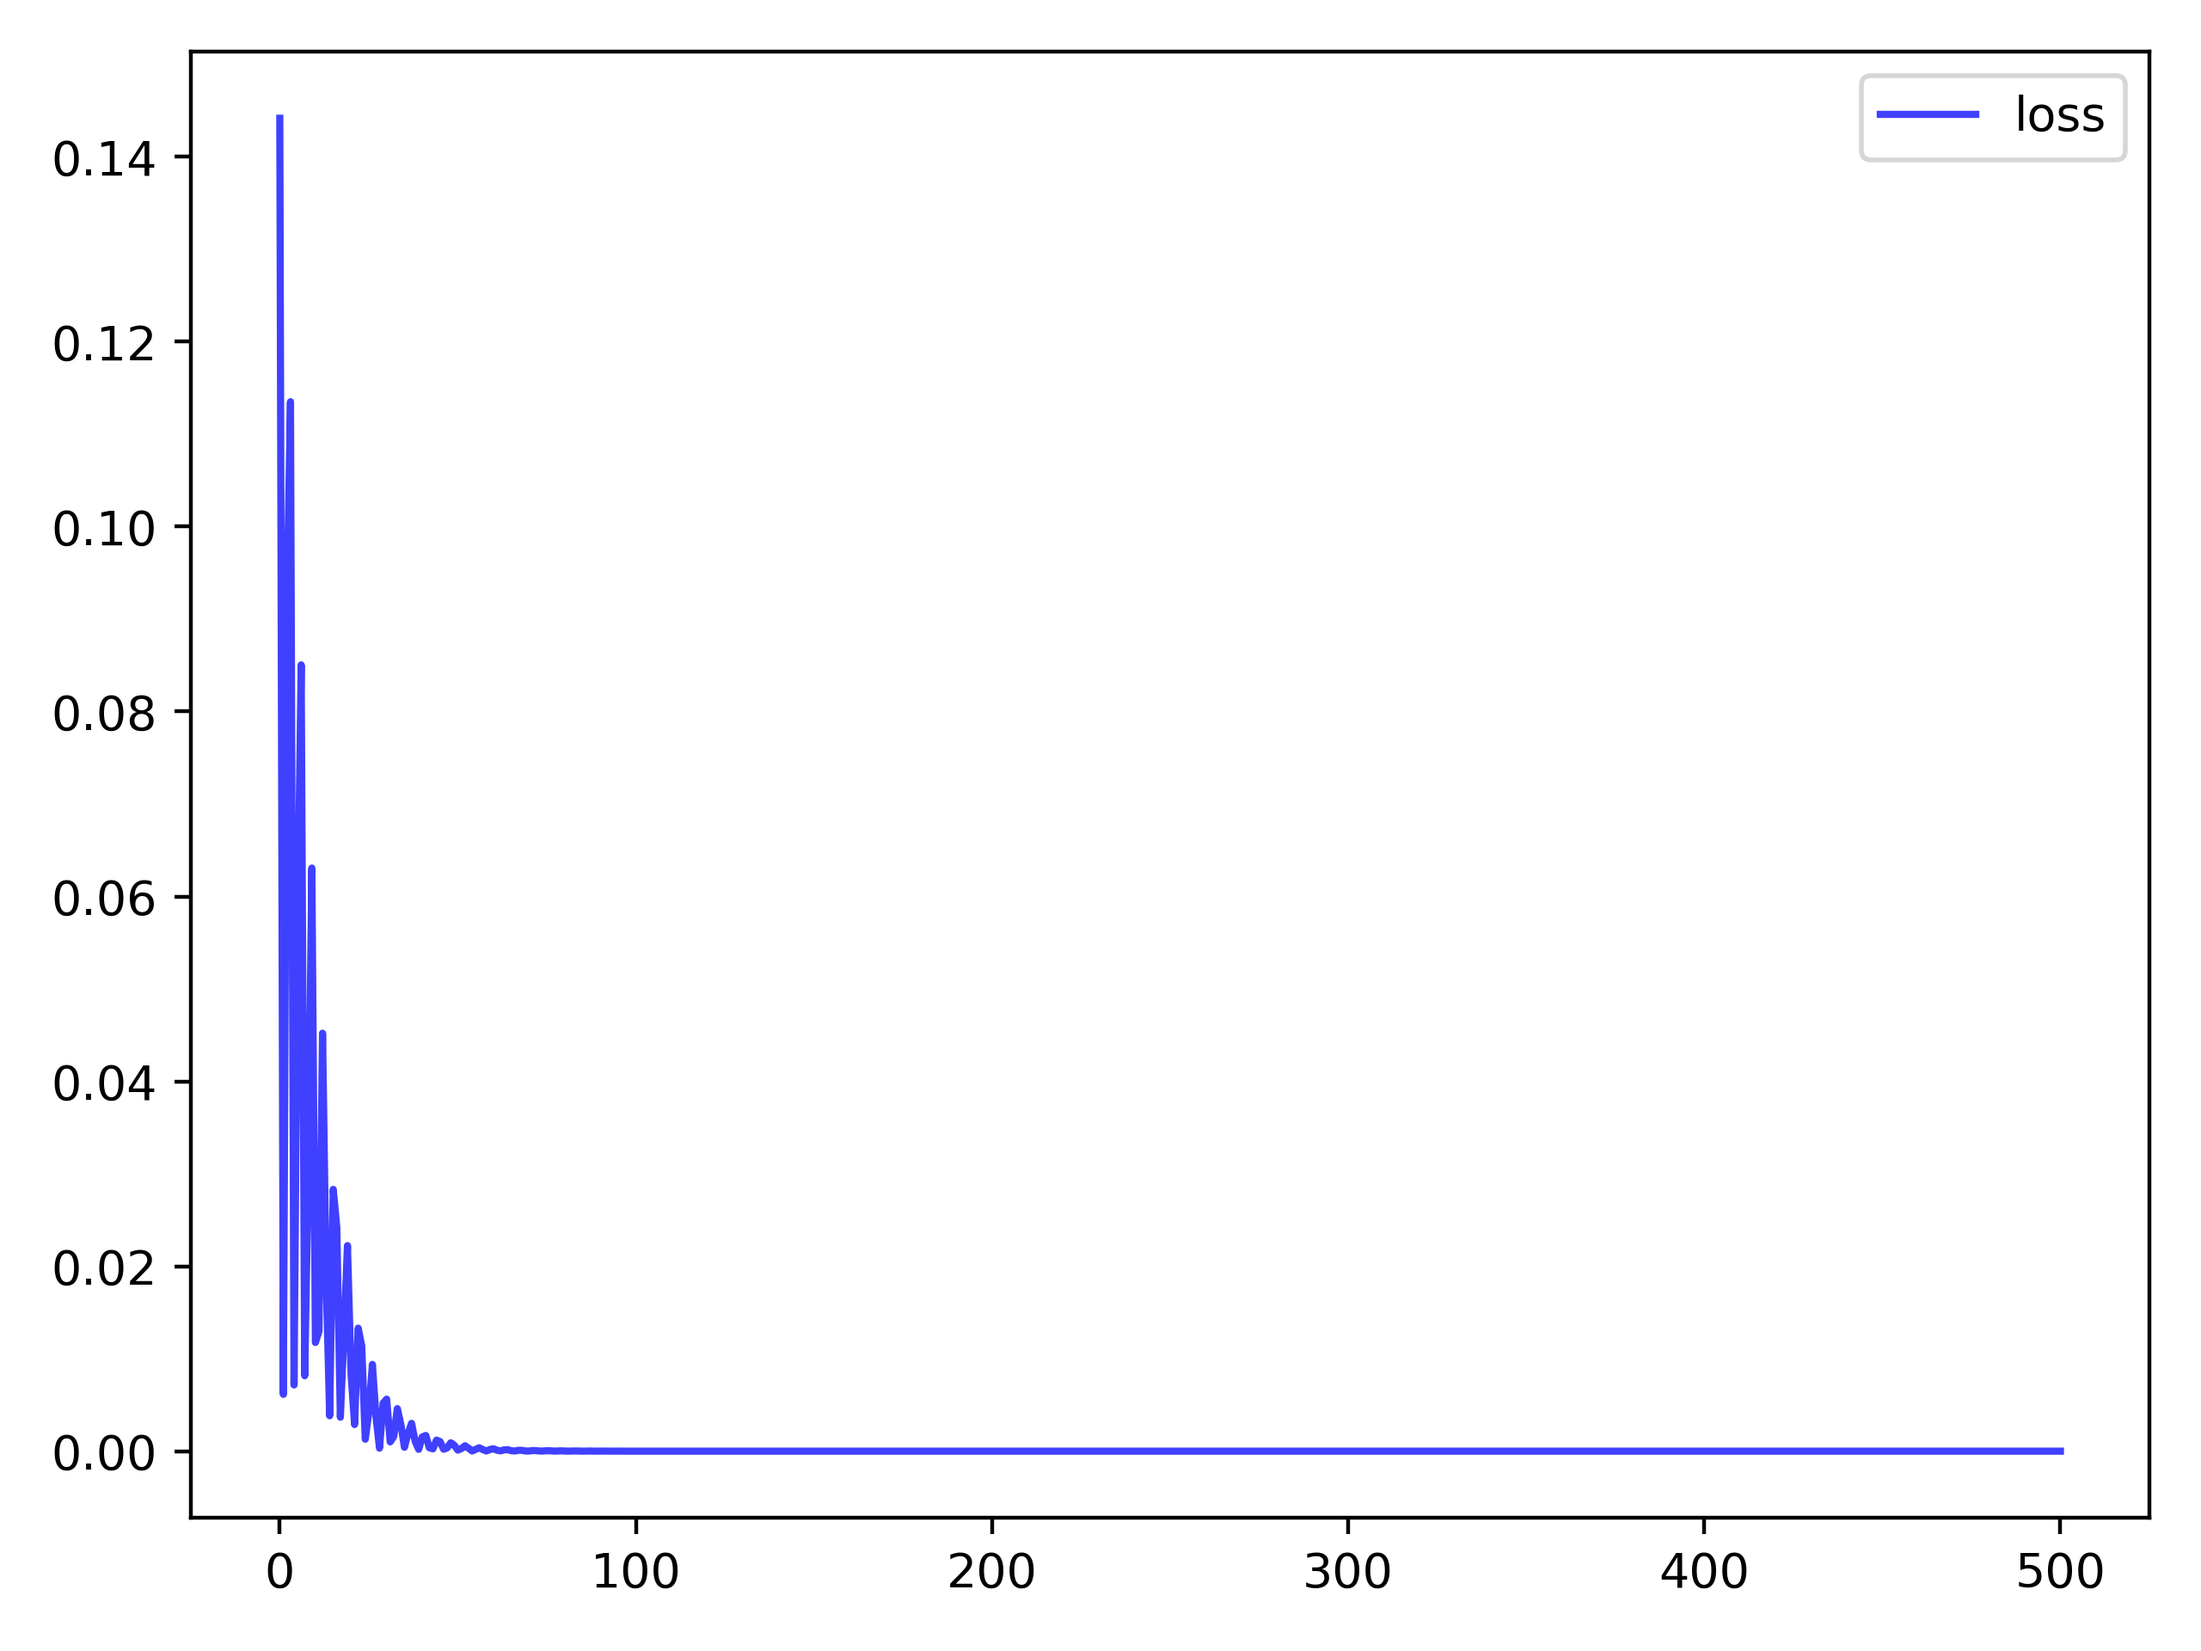
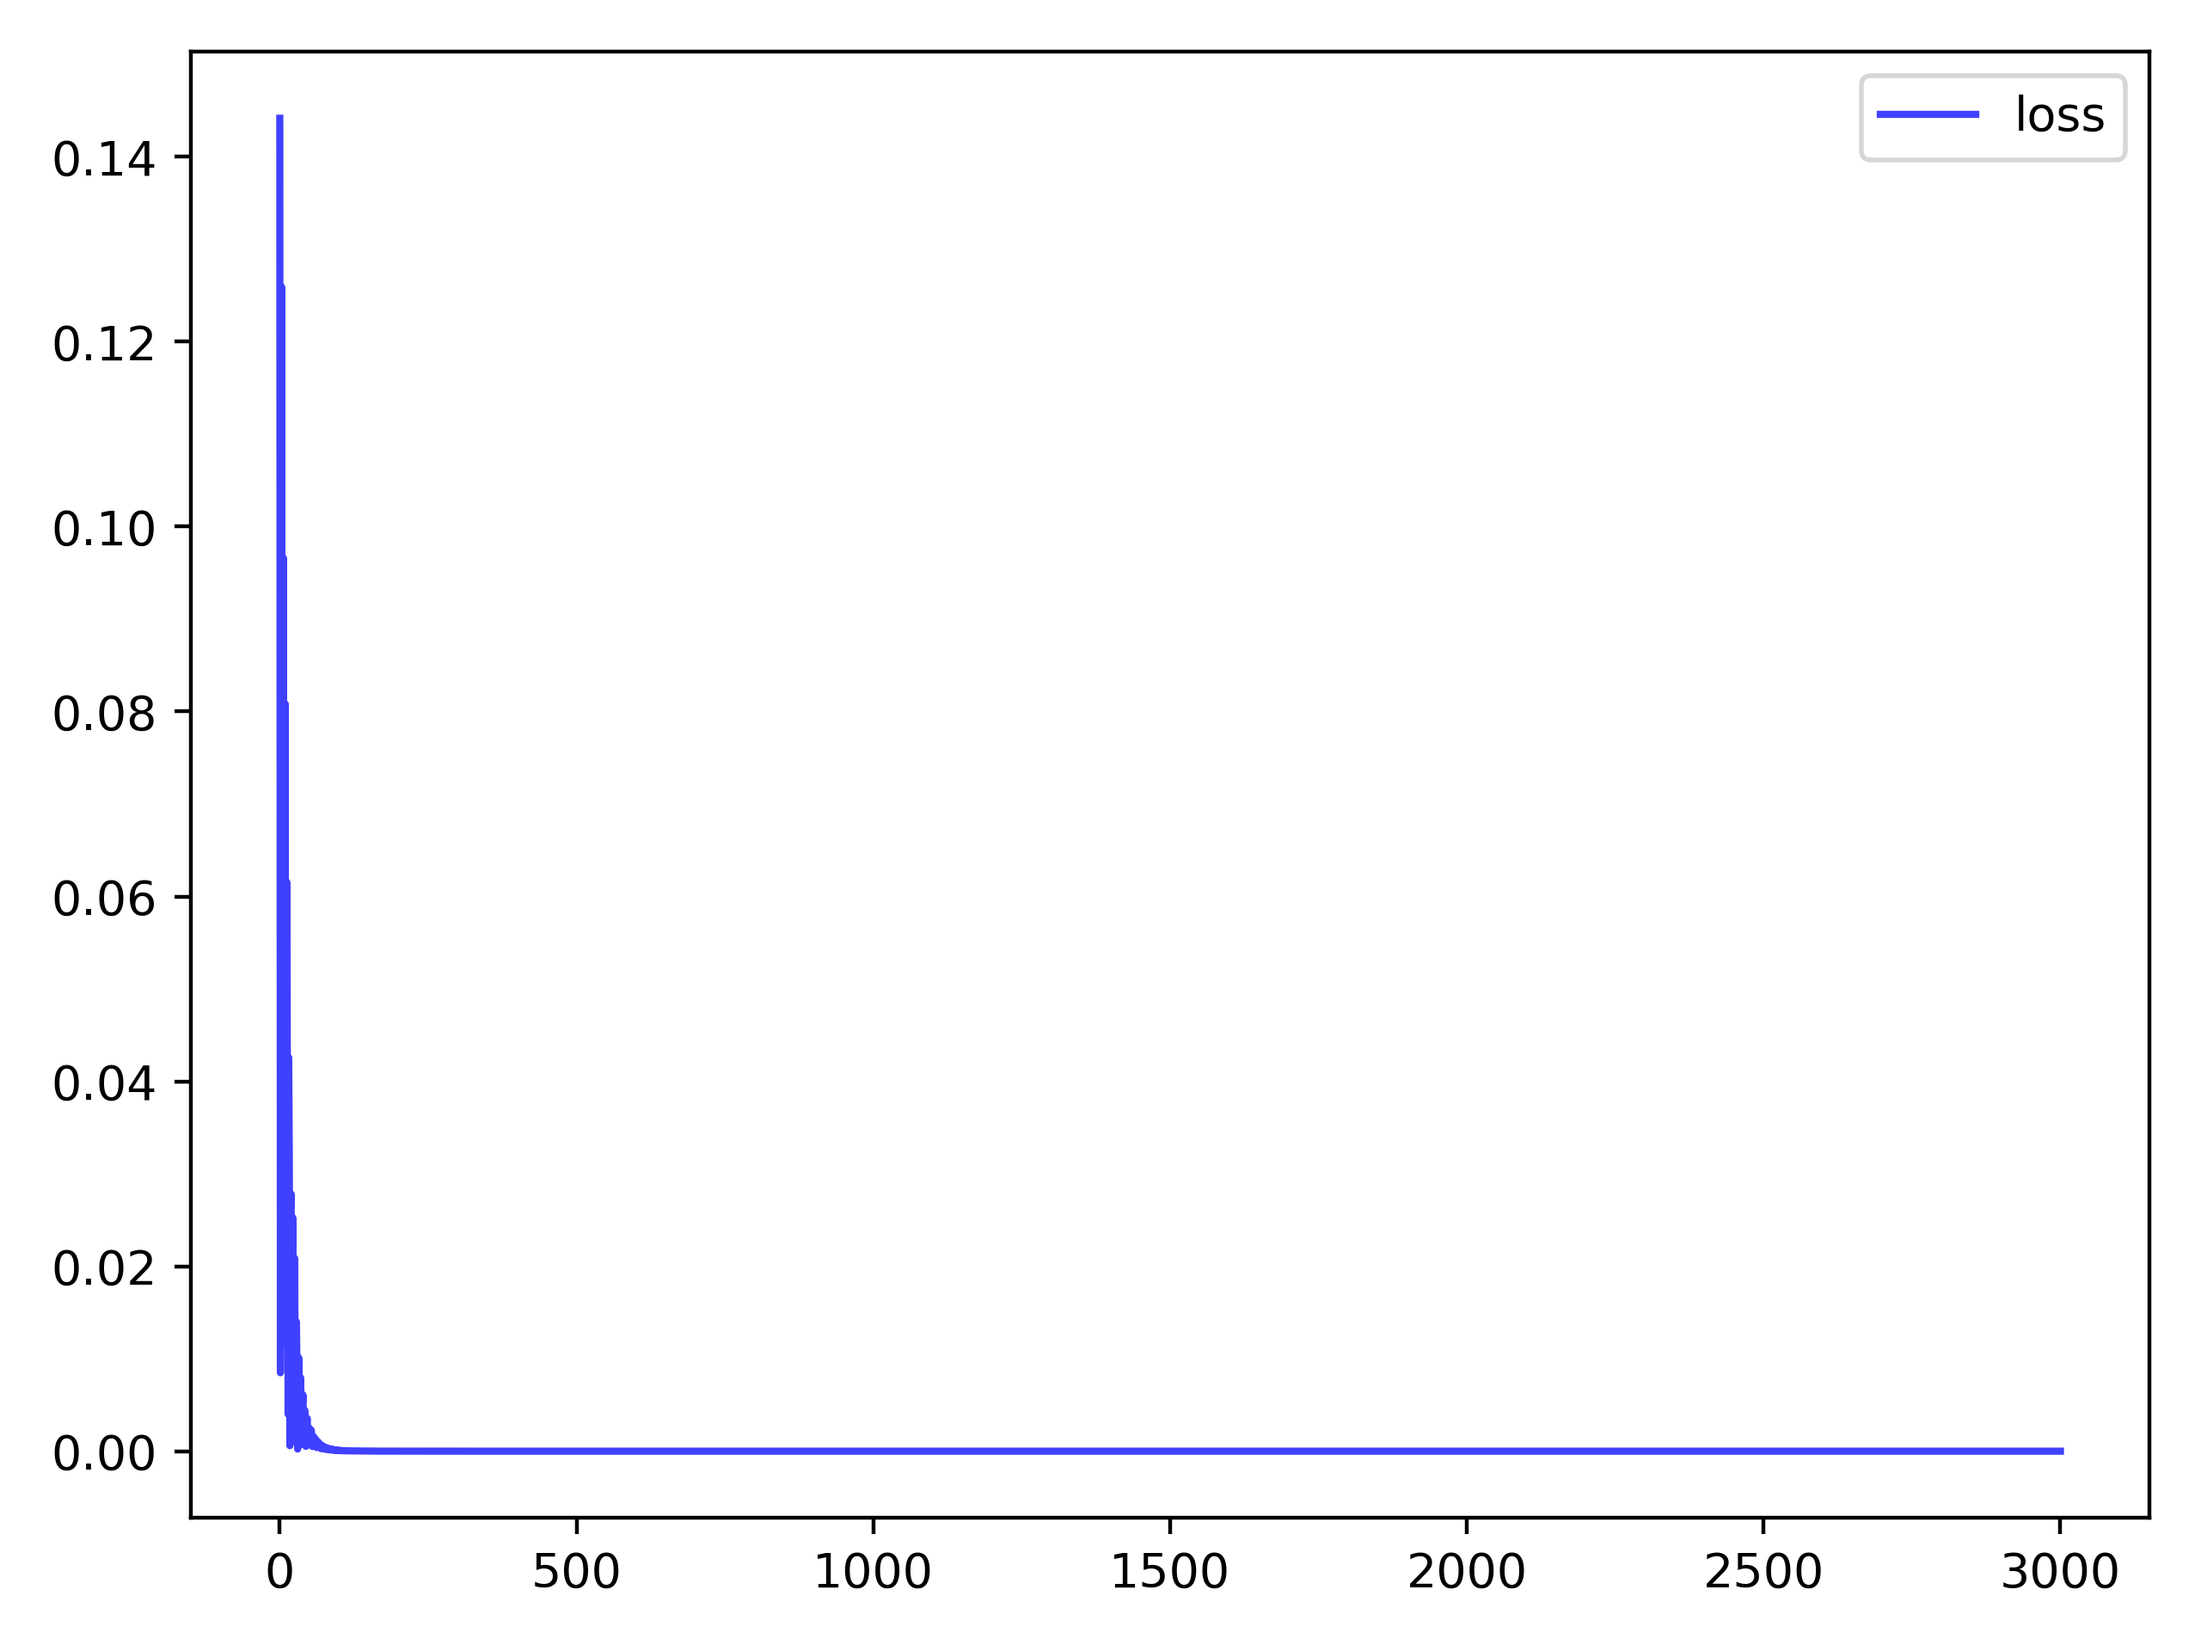
add run_VALA_spinqit.py; use even more simple ansatz :)

diff --git a/run_VALA_spinqit.py b/run_VALA_spinqit.py
@@ -1,0 +1,65 @@
+#!/usr/bin/env python3
+# Author: Armit
+# Create Time: 2024/06/17 
+
+import numpy as np
+from scipy.sparse import csr_matrix
+from spinqit import Circuit, Ry, CNOT
+from spinqit.algorithm import VQE
+from spinqit.algorithm.optimizer import GradientDescent
+
+from utils import preprocess, postprocess, I_, get_fidelity, xv
+
+''' HParam '''
+n_qubits = 2
+lr = 1.5
+iters = 30000
+seed = 1024
+np.random.seed(seed)
+
+''' Hamiltonian '''
+A, b, x = preprocess()
+H_A = A.conj().T @ (I_(n_qubits) - b @ b.conj().T) @ A    # Eq. 6
+ham = csr_matrix(H_A)
+
+''' Ansatz '''
+ansatz = 'swap_distro'
+if ansatz == 'two_local':
+  param_shape = (6,)
+  circ = Circuit()
+  qv = circ.allocateQubits(n_qubits)
+  p = circ.add_params(shape=param_shape)
+  circ << (Ry, qv[0], p[0])
+  circ << (Ry, qv[1], p[1])
+  circ << (CNOT, [qv[0], qv[1]])
+  circ << (Ry, qv[0], p[2])
+  circ << (Ry, qv[1], p[3])
+  circ << (CNOT, [qv[1], qv[0]])
+  circ << (Ry, qv[0], p[4])
+  circ << (Ry, qv[1], p[5])
+elif ansatz == 'swap_distro':
+  param_shape = (3,)
+  circ = Circuit()
+  qv = circ.allocateQubits(n_qubits)
+  p = circ.add_params(shape=param_shape)
+  circ << (Ry, qv[0], p[0])
+  circ << (CNOT, [qv[0], qv[1]])
+  circ << (Ry, qv[0], p[1])
+  circ << (CNOT, [qv[1], qv[0]])
+  circ << (Ry, qv[0], p[2])
+
+''' Train '''
+optim = GradientDescent(maxiter=iters, learning_rate=lr, tolerance=1e-30, verbose=True)
+vqe = VQE(ham, optim, ansatz=circ, params=np.zeros(param_shape))
+loss_list = vqe.run(mode='spinq', grad_method='param_shift')
+losses = [it.item() for it in loss_list]
+print('optimized params:', vqe.optimized_params)
+
+''' PMeasure '''
+x_tilde = np.asarray([it.real for it in vqe.optimized_result.states])
+print(r'|\tilde{x}>:', x_tilde)
+print('fid:', get_fidelity(x_tilde, x))
+xv_hat = postprocess(x_tilde)
+print('x:', xv_hat)
+print('L1 err:', np.abs(xv.flatten() - xv_hat).mean())
+print()

diff --git a/run_VALA.py b/run_VALA.py
@@ -22,10 +22,10 @@ n_qubits = 2
 if circ_type == 'original':
   n_param = n_qubits * (2 + 4 * depth)
 elif circ_type == 'simple':
-  n_param = n_qubits * (1 + 2 * depth)
-n_shots = 10000
-lr = 0.8
-iters = 500
+  n_param = n_qubits + 1
+n_shots = 100000
+lr = 1.5
+iters = 3000
 
 print('depth:', depth)
 print('n_qubits:', n_qubits)
@@ -79,14 +79,11 @@ def circuit_original(param:ndarray) -> List[Operation]:    # Fig. 1
 
 def circuit_simple(param:ndarray) -> List[Operation]:    # just enough for the concrete problem :)
   ops: List[Operation] = []
-  pid = 0
-  for i in range(n_qubits):
-    ops.append(qml.RY(param[pid], wires=i)) ; pid += 1
-  for i in range(n_qubits):
-    j = (i + 1) % n_qubits
-    ops.append(qml.CNOT(wires=[i, j]))
-    ops.append(qml.RY(param[pid], wires=i)) ; pid += 1
-    ops.append(qml.RY(param[pid], wires=j)) ; pid += 1
+  ops.append(qml.RY(param[0], wires=0))
+  ops.append(qml.CNOT(wires=[0, 1]))
+  ops.append(qml.RY(param[1], wires=0))
+  ops.append(qml.CNOT(wires=[1, 0]))
+  ops.append(qml.RY(param[2], wires=0))
   return ops
 
 circuit = eval(f'circuit_{circ_type}')
@@ -114,13 +111,13 @@ def circuit_sample(param:ndarray):
 p = np.zeros([n_param], requires_grad=True)
 param_list = [p]
 loss_list = [circuit_exp(p)]
-opt = qml.MomentumOptimizer(stepsize=lr)
+opt = qml.MomentumOptimizer(stepsize=lr, momentum=0.92)
 for i in range(iters):
   p, loss = opt.step_and_cost(circuit_exp, p)
   loss_list.append(circuit_exp(p))
   param_list.append(p)
 
-  if i % 10 == 0:
+  if i % 100 == 0:
     print(f'[{i}/{iters}] loss: {loss_list[-1]}')
 
 p_opt = param_list[-1]
